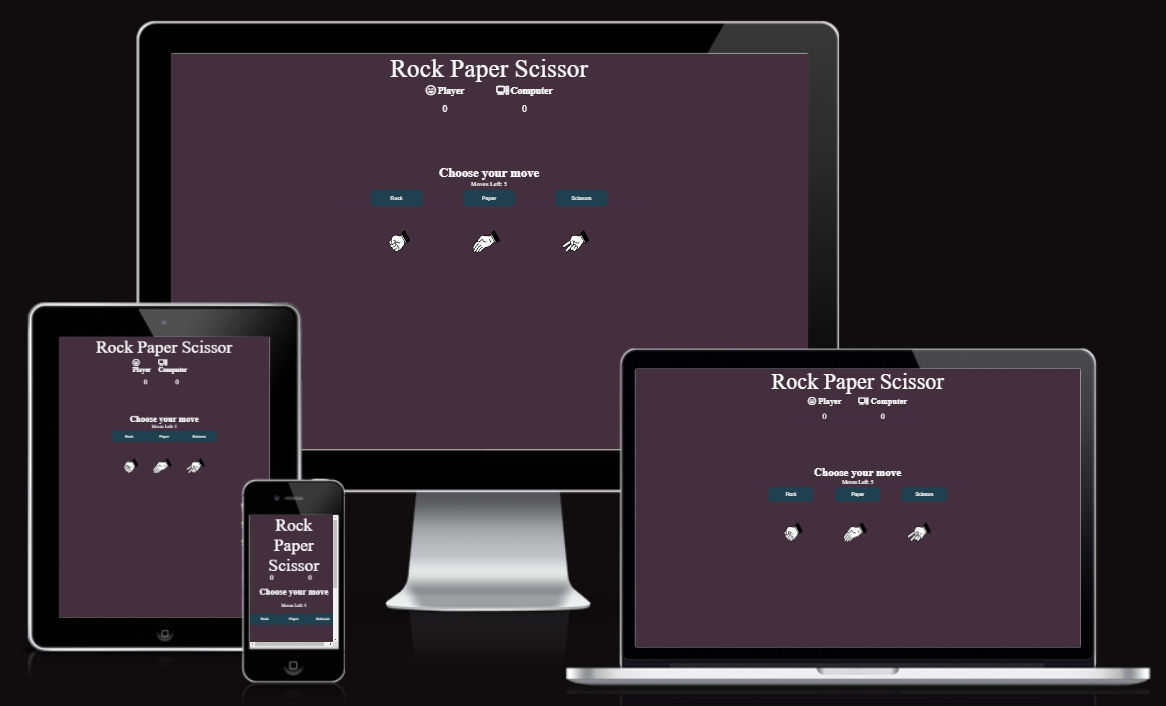
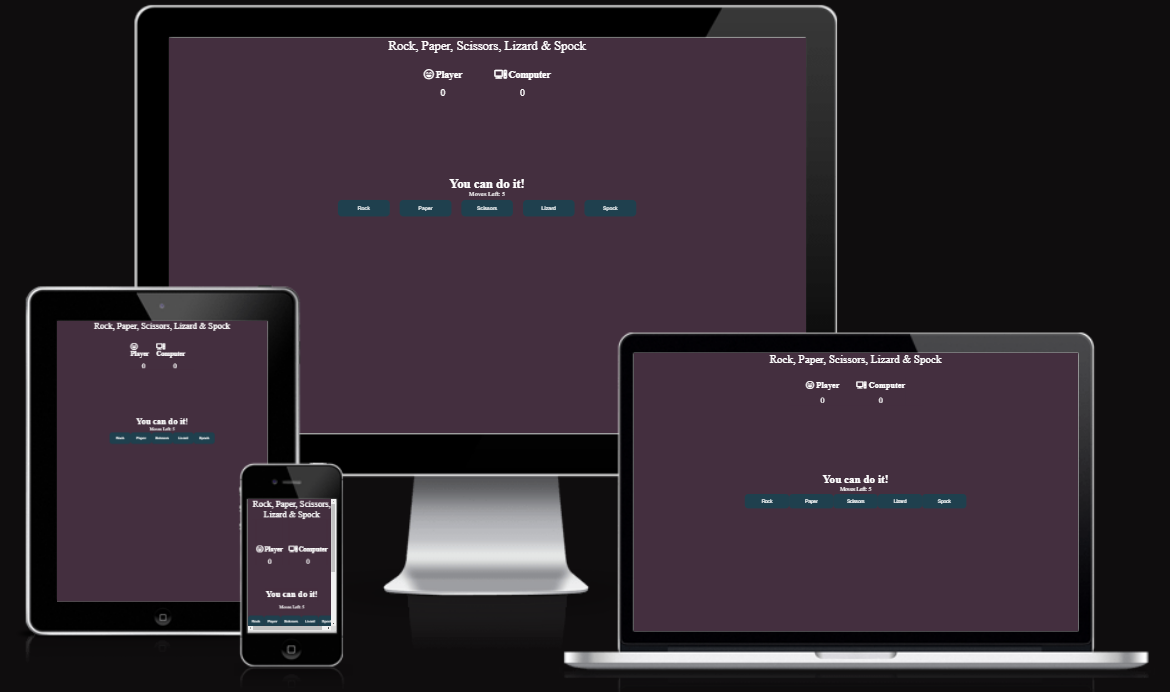
add readme images and text

diff --git a/assets/js/script.js b/assets/js/script.js
@@ -1,13 +1,13 @@
 
-// Big shoutout and and credit to pritishnagpal at www.geeksforgeeks.org for the code
-//game code
+// Big shoutout and and credit to pritishnagpal at www.geeksforgeeks.org 
+//Game
 let game = () => {
 	let playerScore = 0;
 	let computerScore = 0;
 	let moves = 0;
 
 
-	// Function to
+	// Function 
 	let playGame = () => {
 		let rockBtn = document.querySelector('.rock');
 		let paperBtn = document.querySelector('.paper');
@@ -42,6 +42,7 @@ let game = () => {
 	}
 
 	// Function to decide winner
+	//Credit to Frank Arellano at CI
 	let winner = (player,computer) => {
 		let result = document.querySelector('.result');
 		let playerScoreBoard = document.querySelector('.p-count');

diff --git a/index.html b/index.html
@@ -7,7 +7,7 @@
   <link rel="stylesheet" href="./assets/css/style.css">
 	<!--font awesome script-->
   <script src="https://kit.fontawesome.com/ab2fae3edc.js" crossorigin="anonymous"></script>
-  <!--favicon link-->
+  <!--favicon link from Love Maths-->
   <link rel='shortcut icon' type='image/x-icon' href='favicon.ico' />
   <title>Rock Paper Scissors Lizard Spock!</title>
  

diff --git a/README.md b/README.md
@@ -9,11 +9,15 @@
 
 ## Features
 
-* ### Heading and Score
-Here you can see logo Rock, Paper Scissors, player and computer with each font awesome image icons to make it more fun. Under the player and computer you can se the scoreboard.
-![Heading and Player](./readme.images/heading-score.png)
+- ### Heading and Score
+  - Here you can see Rock, Paper, Scissors, Lizard and Spock heading. Player and Computer with each font awesome image icons to make it more fun. Under the player and computer you can se the scoreboard.
+![Heading and Player](./readme.images/scoreboard.png)
 
 * ### Playing Field
-Here the player gets three options, where they choose rock, paper or scissors.
-You have a total of five attempts before the game is over.
-![Playing Field](./readme.images/playing-field.png)
+  - Here the player gets five options, where they can choose Rock, Paper, Scissors, Lizard or Spock. If the player beats the computer a message will appear under the playing field.
+  ![Playing Field](./readme.images/moves.png)
+  - The player have a total of five attempts to beat the computer before the game is over.
+  ![moves left](./readme.images/moves-left.png)
+
+  - When the game is over, a new page will be uploaded where the player will find out who won. If the person wants to play once more, they press Again! to start the game.
+  ![Champion](./readme.images/champion.png)
